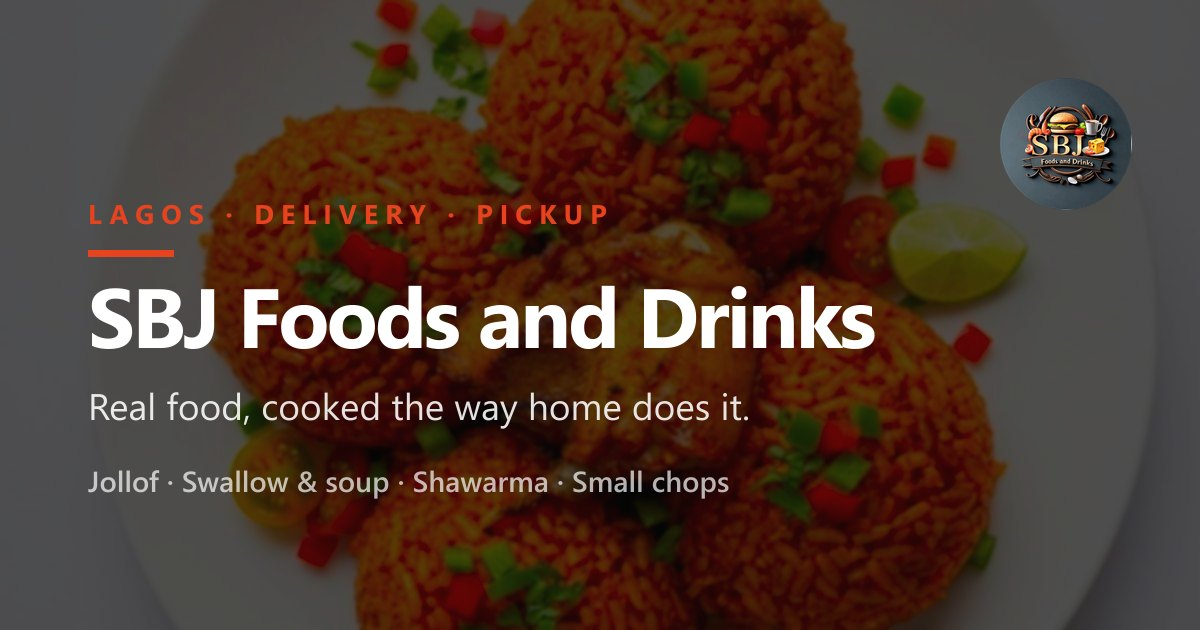
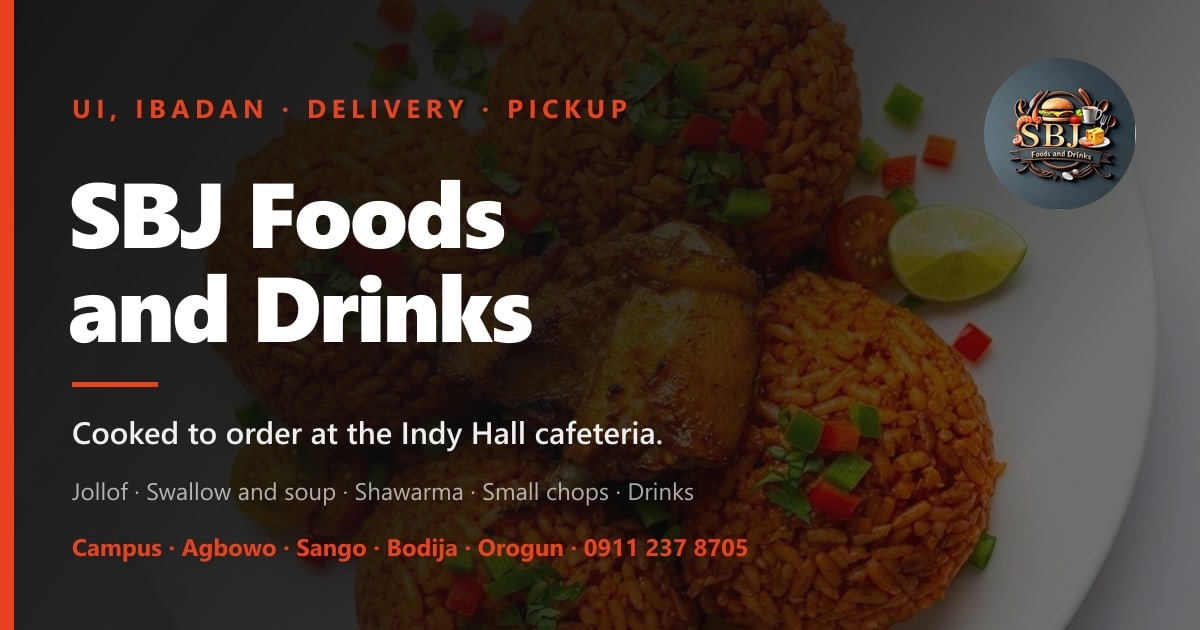
Correct the location to Independence Hall, University of Ibadan
The site said Lagos throughout and listed Ikeja, Yaba, Surulere and
Lekki as delivery zones. None of that was right — SBJ trades from the
Independence Hall cafeteria at UI, Ibadan. A wrong city in the meta
tags and the JSON-LD is worse than none, so this replaces it
everywhere: titles, descriptions, Open Graph, structured data, the
header strapline, the home page zone strip and the share card.

The JSON-LD now carries the real address and telephone, with
addressRegion Oyo. areaServed is the campus plus Agbowo, Sango, Bodija
and Orogun — those neighbours are an assumption and are flagged for
checking in README.seo.md.

The footer gains the address and a tel: link on the delivery number,
in E.164 so it dials from abroad.

Also makes the link preview more robust, since no image was showing
when the URL was pasted into WhatsApp:
- og:type is now `website`. `restaurant.restaurant` is a Facebook
  vertical type that expects a set of restaurant:* properties with it,
  and a scraper that validates it can drop the preview entirely.
  Google takes the restaurant semantics from the JSON-LD regardless.
- Added og:image:secure_url and og:image:type, which older scrapers
  look for rather than infer.

The underlying cause of the missing preview was a cached scrape: until
the previous commit deployed, the page had no og:image at all, and
WhatsApp holds a preview for about a week.

diff --git a/index.html b/index.html
@@ -10,10 +10,10 @@
       trailing slash, because every canonical, og:url and JSON-LD URL here is
       built from it. It is set in netlify.toml.
     -->
-    <title>SBJ Foods and Drinks — Nigerian food delivery in Lagos</title>
+    <title>SBJ Foods and Drinks — food delivery at UI, Ibadan</title>
     <meta
       name="description"
-      content="Jollof, swallow and soup, shawarma and small chops, cooked to order in Lagos. Delivery to Ikeja, Yaba, Surulere and Lekki, or collect in store. Plates from ₦200."
+      content="Jollof, swallow and soup, shawarma and small chops, cooked to order at the Independence Hall cafeteria, University of Ibadan. Delivery across campus and to Agbowo, Sango, Bodija and Orogun, or collect at the counter. Plates from ₦200."
     />
     <link rel="canonical" href="%VITE_SITE_URL%/" />
     <meta name="robots" content="index, follow, max-image-preview:large" />
@@ -27,18 +27,20 @@
       Google, which does execute JS.
     -->
     <meta property="og:site_name" content="SBJ Foods and Drinks" />
-    <meta property="og:type" content="restaurant.restaurant" />
+    <meta property="og:type" content="website" />
     <meta property="og:locale" content="en_NG" />
     <meta property="og:url" content="%VITE_SITE_URL%/" />
     <meta
       property="og:title"
-      content="SBJ Foods and Drinks — Nigerian food delivery in Lagos"
+      content="SBJ Foods and Drinks — food delivery at UI, Ibadan"
     />
     <meta
       property="og:description"
-      content="Jollof, swallow and soup, shawarma and small chops, cooked to order. Delivery across Lagos or collect in store."
+      content="Jollof, swallow and soup, shawarma and small chops, cooked to order at Indy Hall, UI. Delivery across campus and nearby, or collect at the counter."
     />
     <meta property="og:image" content="%VITE_SITE_URL%/og/share.jpg" />
+    <meta property="og:image:secure_url" content="%VITE_SITE_URL%/og/share.jpg" />
+    <meta property="og:image:type" content="image/jpeg" />
     <meta property="og:image:width" content="1200" />
     <meta property="og:image:height" content="630" />
     <meta
@@ -49,11 +51,11 @@
     <meta name="twitter:card" content="summary_large_image" />
     <meta
       name="twitter:title"
-      content="SBJ Foods and Drinks — Nigerian food delivery in Lagos"
+      content="SBJ Foods and Drinks — food delivery at UI, Ibadan"
     />
     <meta
       name="twitter:description"
-      content="Jollof, swallow and soup, shawarma and small chops, cooked to order. Delivery across Lagos or collect in store."
+      content="Jollof, swallow and soup, shawarma and small chops, cooked to order at Indy Hall, UI. Delivery across campus and nearby, or collect at the counter."
     />
     <meta name="twitter:image" content="%VITE_SITE_URL%/og/share.jpg" />
 
@@ -77,21 +79,11 @@
       ------------------------------------------------ structured data
 
       This is what puts opening hours, the price range and a menu link into
-      Google's result for "sbj foods lagos" rather than a bare blue link.
+      Google's result for "sbj foods ui" rather than a bare blue link.
 
-      TWO PROPERTIES ARE MISSING AND YOU SHOULD ADD THEM, inside "address":
-
-          "streetAddress": "12 Example Road, Ikeja",
-
-      and alongside it:
-
-          "telephone": "+234XXXXXXXXXX"
-
-      They are omitted rather than invented, because a wrong address on a
-      restaurant listing sends people to the wrong building. Local search
-      ranks heavily on both, so this is worth doing before launch — and the
-      same details belong in a Google Business Profile, which is what
-      actually drives the map pack.
+      The address and telephone below are the real ones. Keep them exactly in
+      step with the Google Business Profile — Google cross-checks the two, and
+      a mismatch quietly costs you the map pack.
     -->
     <script type="application/ld+json">
       {
@@ -101,7 +93,7 @@
         "url": "%VITE_SITE_URL%/",
         "image": "%VITE_SITE_URL%/og/share.jpg",
         "logo": "%VITE_SITE_URL%/brand/sbj-logo.png",
-        "description": "Nigerian kitchen classics cooked to order in Lagos — jollof and fried rice, swallow and soup, shawarma, small chops and drinks. Delivery, pickup and dine-in.",
+        "description": "Nigerian kitchen classics cooked to order at the Independence Hall cafeteria, University of Ibadan — jollof and fried rice, swallow and soup, shawarma, small chops and drinks. Delivery, pickup and dine-in.",
         "servesCuisine": ["Nigerian", "West African"],
         "priceRange": "₦₦",
         "currenciesAccepted": "NGN",
@@ -110,15 +102,18 @@
         "acceptsReservations": "False",
         "address": {
           "@type": "PostalAddress",
-          "addressLocality": "Lagos",
-          "addressRegion": "Lagos",
+          "streetAddress": "Independence Hall Cafeteria, Great Independence Hall, University of Ibadan",
+          "addressLocality": "Ibadan",
+          "addressRegion": "Oyo",
           "addressCountry": "NG"
         },
+        "telephone": "+2349112378705",
         "areaServed": [
-          { "@type": "Place", "name": "Ikeja" },
-          { "@type": "Place", "name": "Yaba" },
-          { "@type": "Place", "name": "Surulere" },
-          { "@type": "Place", "name": "Lekki" }
+          { "@type": "Place", "name": "University of Ibadan" },
+          { "@type": "Place", "name": "Agbowo" },
+          { "@type": "Place", "name": "Sango, Ibadan" },
+          { "@type": "Place", "name": "Bodija" },
+          { "@type": "Place", "name": "Orogun, Ibadan" }
         ],
         "openingHoursSpecification": [
           {

diff --git a/src/components/Footer.tsx b/src/components/Footer.tsx
@@ -1,5 +1,10 @@
 import { Link } from 'react-router-dom';
 
+/// The delivery number, in two shapes: the one people dial, and the E.164 one
+/// `tel:` wants so it still works from a phone roaming outside Nigeria.
+const PHONE_DISPLAY = '0911 237 8705';
+const PHONE_TEL = '+2349112378705';
+
 export function Footer() {
   return (
     <footer className="site-footer">
@@ -8,7 +13,14 @@ export function Footer() {
           <span className="label">SBJ Foods and Drinks</span>
           <h3>Come hungry.</h3>
           <p>
-            Lagos · Since the pot was small. Open every day, 8:00 to 21:30.
+            Independence Hall Cafeteria, Great Independence Hall, University of
+            Ibadan. Open every day, 8:00 to 21:30.
+          </p>
+          <p>
+            Delivery ·{' '}
+            <a className="footer-phone" href={`tel:${PHONE_TEL}`}>
+              {PHONE_DISPLAY}
+            </a>
           </p>
         </div>
 
@@ -28,10 +40,11 @@ export function Footer() {
         <div>
           <span className="label">Zones</span>
           <ul>
-            <li>Ikeja</li>
-            <li>Yaba</li>
-            <li>Surulere</li>
-            <li>Lekki</li>
+            <li>UI campus</li>
+            <li>Agbowo</li>
+            <li>Sango</li>
+            <li>Bodija</li>
+            <li>Orogun</li>
           </ul>
         </div>
       </div>

diff --git a/src/styles/app.css b/src/styles/app.css
@@ -1389,6 +1389,23 @@ a { color: inherit; }
 .site-footer p { opacity: 0.72; font-size: var(--t-sm); }
 .site-footer ul { list-style: none; margin: 0; padding: 0; }
 .site-footer li { padding: 6px 0; font-size: var(--t-sm); opacity: 0.72; }
+.site-footer p + p { margin-top: var(--s-3); }
+
+/* The delivery number is the one thing in the footer somebody taps in a
+   hurry, so it gets full opacity and a large enough hit area on a phone. */
+.site-footer .footer-phone {
+  color: var(--brand);
+  font-weight: 700;
+  letter-spacing: 0.01em;
+  white-space: nowrap;
+  text-decoration: none;
+  border-bottom: 1px solid color-mix(in srgb, var(--brand) 45%, transparent);
+  padding-bottom: 1px;
+}
+.site-footer .footer-phone:hover,
+.site-footer .footer-phone:focus-visible {
+  border-bottom-color: var(--brand);
+}
 
 .site-footer-base {
   margin-top: var(--s-7);

diff --git a/src/pages/HomePage.tsx b/src/pages/HomePage.tsx
@@ -38,7 +38,7 @@ export function HomePage({
 }) {
   useSeo({
     description:
-      'Jollof, swallow and soup, shawarma and small chops, cooked to order in Lagos. Delivery to Ikeja, Yaba, Surulere and Lekki, or collect in store.',
+      'Jollof, swallow and soup, shawarma and small chops, cooked to order at Indy Hall, UI. Delivery across campus and to Agbowo, Sango, Bodija and Orogun, or collect at the counter.',
     path: '/',
   });
 
@@ -212,7 +212,7 @@ export function HomePage({
         </div>
         <div className="stat-cell">
           <b>4 zones</b>
-          <span>Ikeja · Yaba · Surulere · Lekki</span>
+          <span>UI campus · Agbowo · Sango · Bodija · Orogun</span>
         </div>
         <div className="stat-cell">
           <b>1 day</b>

diff --git a/src/lib/seo.ts b/src/lib/seo.ts
@@ -17,10 +17,10 @@ export const SITE_URL = (
 ).replace(/\/$/, '');
 
 const DEFAULT_TITLE =
-  'SBJ Foods and Drinks — Nigerian food delivery in Lagos';
+  'SBJ Foods and Drinks — food delivery at UI, Ibadan';
 
 const DEFAULT_DESCRIPTION =
-  'Jollof, swallow and soup, shawarma and small chops, cooked to order in Lagos. Delivery to Ikeja, Yaba, Surulere and Lekki, or collect in store. Plates from ₦200.';
+  'Jollof, swallow and soup, shawarma and small chops, cooked to order at the Independence Hall cafeteria, University of Ibadan. Delivery across campus and to Agbowo, Sango, Bodija and Orogun, or collect at the counter. Plates from ₦200.';
 
 export interface SeoOptions {
   title?: string;

diff --git a/src/pages/FullMenuPage.tsx b/src/pages/FullMenuPage.tsx
@@ -35,7 +35,7 @@ export function FullMenuPage({
   useSeo({
     title: 'The full menu',
     description:
-      'Every dish SBJ cooks — jollof and fried rice, ofada, swallow and soup, shawarma, suya, small chops and drinks. Plates from ₦200, delivered across Lagos.',
+      'Every dish SBJ cooks — jollof and fried rice, ofada, swallow and soup, shawarma, suya, small chops and drinks. Plates from ₦200, delivered across UI and nearby Ibadan.',
     path: '/menu',
   });
 

diff --git a/src/components/Header.tsx b/src/components/Header.tsx
@@ -90,7 +90,7 @@ export function Header({
           />
           <span className="brand-text">
             <strong>SBJ Foods and Drinks</strong>
-            <small>Lagos · Since the pot was small</small>
+            <small>Indy Hall, UI · Since the pot was small</small>
             <em className="brand-sub">Food &amp; Drinks</em>
           </span>
         </Link>

diff --git a/README.seo.md b/README.seo.md
@@ -74,35 +74,35 @@ is worse than having no SEO at all.
 
 It is baked in at build time, so changing it needs a redeploy, not a restart.
 
-### 2. Fill in the address and phone number
+### 2. ~~Fill in the address and phone number~~ — done
 
-In [index.html](index.html), inside the JSON-LD block at the bottom, add:
+The JSON-LD now carries the real ones:
 
-```json
-"address": {
-  "@type": "PostalAddress",
-  "streetAddress": "12 Example Road, Ikeja",
-  ...
-},
-"telephone": "+234XXXXXXXXXX",
+```
+Independence Hall Cafeteria, Great Independence Hall, University of Ibadan
+Ibadan, Oyo State
++234 911 237 8705
 ```
 
-They are deliberately left out rather than filled with a guess, because a
-wrong address on a restaurant listing sends hungry people to the wrong
-building.
+**Check the delivery zones.** The site currently names Agbowo, Sango, Bodija
+and Orogun as the areas served beyond campus. Those are my pick of the
+neighbourhoods next to UI, not something you told me — change them in
+[index.html](index.html) (`areaServed`) and
+[src/components/Footer.tsx](src/components/Footer.tsx) if you cover different
+ground.
 
 ### 3. Create a Google Business Profile
 
 This is the single highest-value item on the list, and it is not something
 code can do.
 
-When someone in Lagos searches "jollof near me" or "food delivery Ikeja", the
+When a student searches "food near UI" or "jollof Agbowo", the
 map pack at the top of the results comes from Google Business Profile, not
 from the website. Claim the listing at
 [business.google.com](https://business.google.com), use the **same** name,
-address and phone number as the JSON-LD above, add photos, and set the opening
-hours to match (the site currently declares 08:00–21:30 daily — change both if
-that is wrong).
+address and phone number as above — Google cross-checks them and a mismatch
+quietly costs you the listing — add photos, and set the opening hours to match
+(the site declares 08:00–21:30 daily; change both if that is wrong).
 
 ### 4. Submit the sitemap
 
